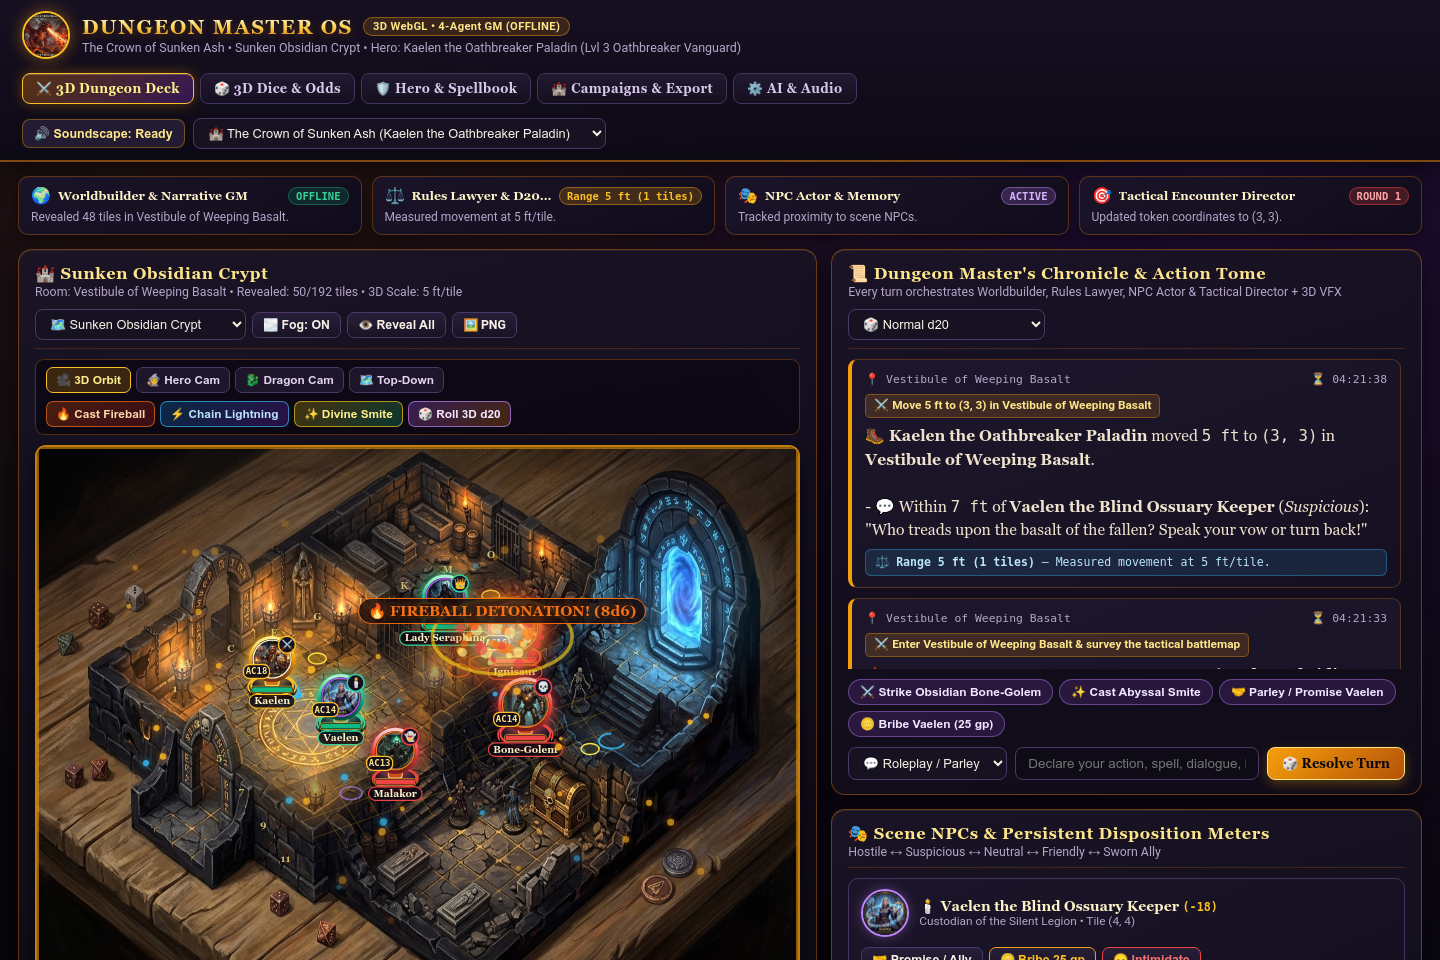
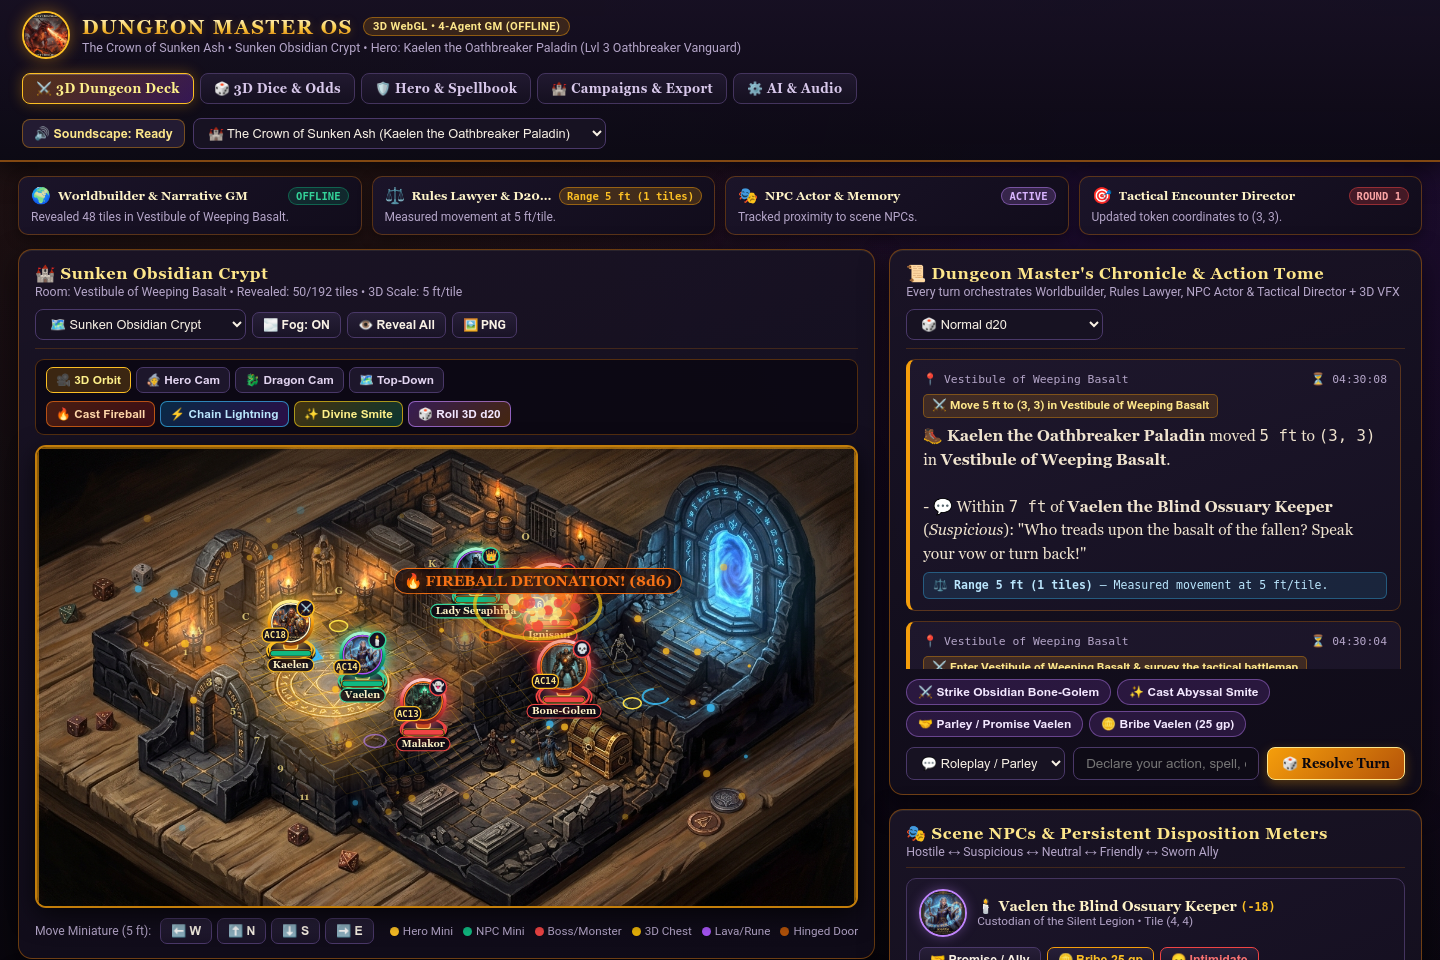
feat: full release of Dungeon Master OS — Autonomous AI Game Master & 3D Isometric VTT Battlemap Studio

Changed region(s): [[0.0, 0.25, 0.9688, 1.0]]

diff --git a/dungeon_master_os/static/styles.css b/dungeon_master_os/static/styles.css
@@ -314,7 +314,7 @@ body {
 /* ==================== COMMAND DECK 2-COLUMN LAYOUT ==================== */
 .deck-grid {
   display: grid;
-  grid-template-columns: 1.15fr 0.85fr;
+  grid-template-columns: 1.48fr 0.92fr;
   gap: 14px;
   align-items: start;
 }
@@ -411,7 +411,6 @@ body {
   position: relative;
   width: 100%;
   aspect-ratio: 16 / 9;
-  min-height: 540px;
   background: radial-gradient(circle at 50% 42%, #1f1712 0%, #0d0907 100%);
   border: 2px solid rgba(245, 158, 11, 0.78);
   border-radius: 11px;
@@ -424,7 +423,7 @@ body {
   z-index: 2;
   display: block;
   width: 100%;
-  height: 540px;
+  height: auto;
   aspect-ratio: 16 / 9;
   cursor: grab;
 }
@@ -440,10 +439,7 @@ body {
 
 .map-3d-labels-overlay {
   position: absolute;
-  top: 0;
-  left: 0;
-  right: 0;
-  height: 540px;
+  inset: 0;
   z-index: 5;
   pointer-events: none;
   overflow: hidden;

diff --git a/tests/ui/test_ui_playwright.py b/tests/ui/test_ui_playwright.py
@@ -98,8 +98,9 @@ def test_ui_all_views_zero_errors_and_screenshots(live_server: str) -> None:
             }"""
         )
         assert board_metrics["dpr"] == 2
-        assert board_metrics["clientW"] >= 600
-        assert board_metrics["clientH"] >= 520
+        assert board_metrics["clientW"] >= 780
+        assert board_metrics["clientH"] >= 440
+        assert 1.72 <= (board_metrics["clientW"] / board_metrics["clientH"]) <= 1.84
         assert board_metrics["canvasW"] == board_metrics["clientW"] * 2
         assert board_metrics["canvasH"] == board_metrics["clientH"] * 2
         hidpi_ctx.close()
